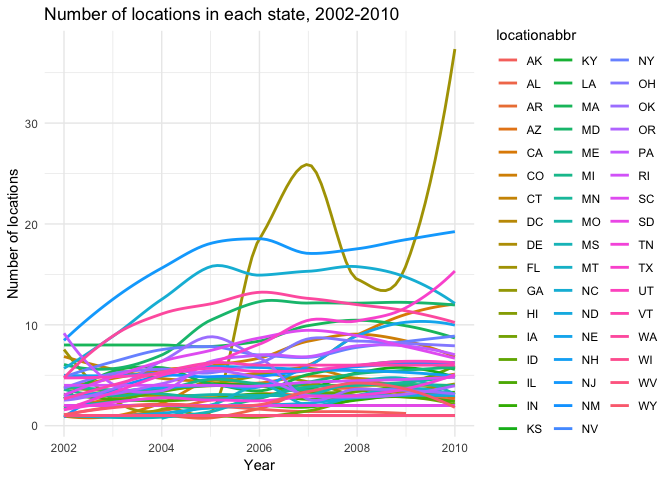
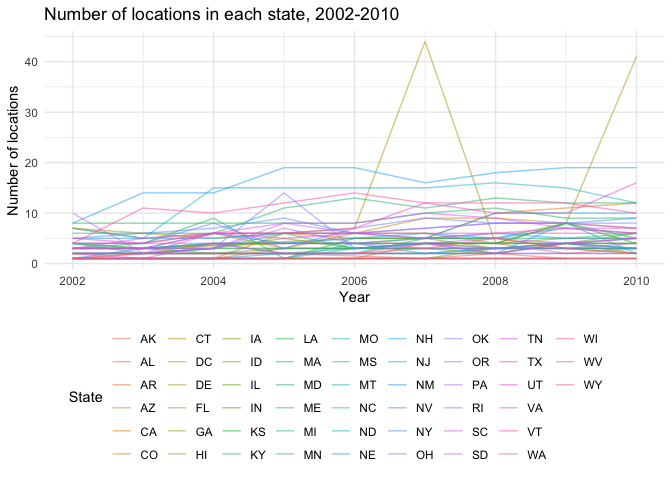
Semi-final pieces of Problem 2

diff --git a/p8105_hw3_gsl2116.md b/p8105_hw3_gsl2116.md
@@ -39,15 +39,15 @@ brfss_data %>%
   group_by(year, locationabbr) %>%
   count(n_locations = n_distinct(locationdesc)) %>% 
   ggplot(aes(x = year, y = n_locations)) + 
-    geom_smooth(aes(color = locationabbr), se = FALSE, alpha = .5) +
+    geom_line(aes(color = locationabbr), alpha = .5) +
     labs(
       title = "Number of locations in each state, 2002-2010",
       x = "Year",
       y = "Number of locations") + 
-    theme_minimal()
+    theme_minimal() +
+    theme(legend.position = "bottom") +
+    guides(col = guide_legend(ncol = 10, title = "State"))
 ```
-
-    ## `geom_smooth()` using method = 'loess' and formula 'y ~ x'
 
 ![](p8105_hw3_gsl2116_files/figure-markdown_github/problem_1b-1.png)
 
@@ -79,16 +79,15 @@ brfss_data %>%
   group_by(year, locationabbr, response) %>%
   summarize(mean_response = mean(data_value, na.rm = TRUE)) %>% 
   ggplot(aes(x = year, y = mean_response, color = locationabbr)) + 
-    geom_smooth(se = FALSE, alpha = .5) +
-    labs(
-      title = "Average proportion in each response category",
+    geom_line(alpha = .5) +
+    labs(title = "Average proportion in each response category",
       x = "Year",
       y = "Average proportion") + 
     theme_minimal() +
+    theme(legend.position = "bottom") +
+    guides(col = guide_legend(ncol = 10, title = "State")) +
     facet_grid(~response)
 ```
-
-    ## `geom_smooth()` using method = 'loess' and formula 'y ~ x'
 
 ![](p8105_hw3_gsl2116_files/figure-markdown_github/problem_1d-1.png)
 
@@ -122,15 +121,30 @@ instacart_data %>%
 
     ## Selecting by n
 
-| aisle                         |                                                                                                                                                                 n|
-|:------------------------------|-----------------------------------------------------------------------------------------------------------------------------------------------------------------:|
-| fresh vegetables              |                                                                                                                                                            150609|
-| fresh fruits                  |                                                                                                                                                            150473|
-| packaged vegetables fruits    |                                                                                                                                                             78493|
-| yogurt                        |                                                                                                                                                             55240|
-| packaged cheese               |                                                                                                                                                             41699|
-| There are 134 aisles. The top |  5 aisles where the most items are ordered from are (in order) "Fresh Vegetables", "Fresh Fruits", "Packaged Vegetables Fruits", "Yogurt", and "Packaged Cheese".|
+| aisle                      |       n|
+|:---------------------------|-------:|
+| fresh vegetables           |  150609|
+| fresh fruits               |  150473|
+| packaged vegetables fruits |   78493|
+| yogurt                     |   55240|
+| packaged cheese            |   41699|
 
-Make a plot that shows the number of items ordered in each aisle. Order aisles sensibly, and organize your plot so others can read it.
+There are 134 aisles. The top 5 aisles where the most items are ordered from are (in order) "Fresh Vegetables", "Fresh Fruits", "Packaged Vegetables Fruits", "Yogurt", and "Packaged Cheese".
+
+**Number of items ordered in each aisle** Order aisles sensibly, and organize your plot so others can read it.
+
+``` r
+instacart_data %>% 
+  group_by(aisle_id, department) %>% 
+  summarize(items = n()) %>% 
+  ggplot(aes(x = aisle_id, y = items, color = department)) + 
+    geom_point(alpha = .5) +
+    theme_minimal() +
+    theme(axis.text.x = element_text(size = 8, angle = 30, hjust = 1)) +
+    theme(legend.position = "bottom") +
+    guides(col = guide_legend(ncol = 10, title = "Department"))
+```
+
+![](p8105_hw3_gsl2116_files/figure-markdown_github/unnamed-chunk-2-1.png)
 
 Make a table showing the most popular item in each of the aisles “baking ingredients”, “dog food care”, and “packaged vegetables fruits”. Make a table showing the mean hour of the day at which Pink Lady Apples and Coffee Ice Cream are ordered on each day of the week; format this table for human readers (i.e. produce a 2 x 7 table).
